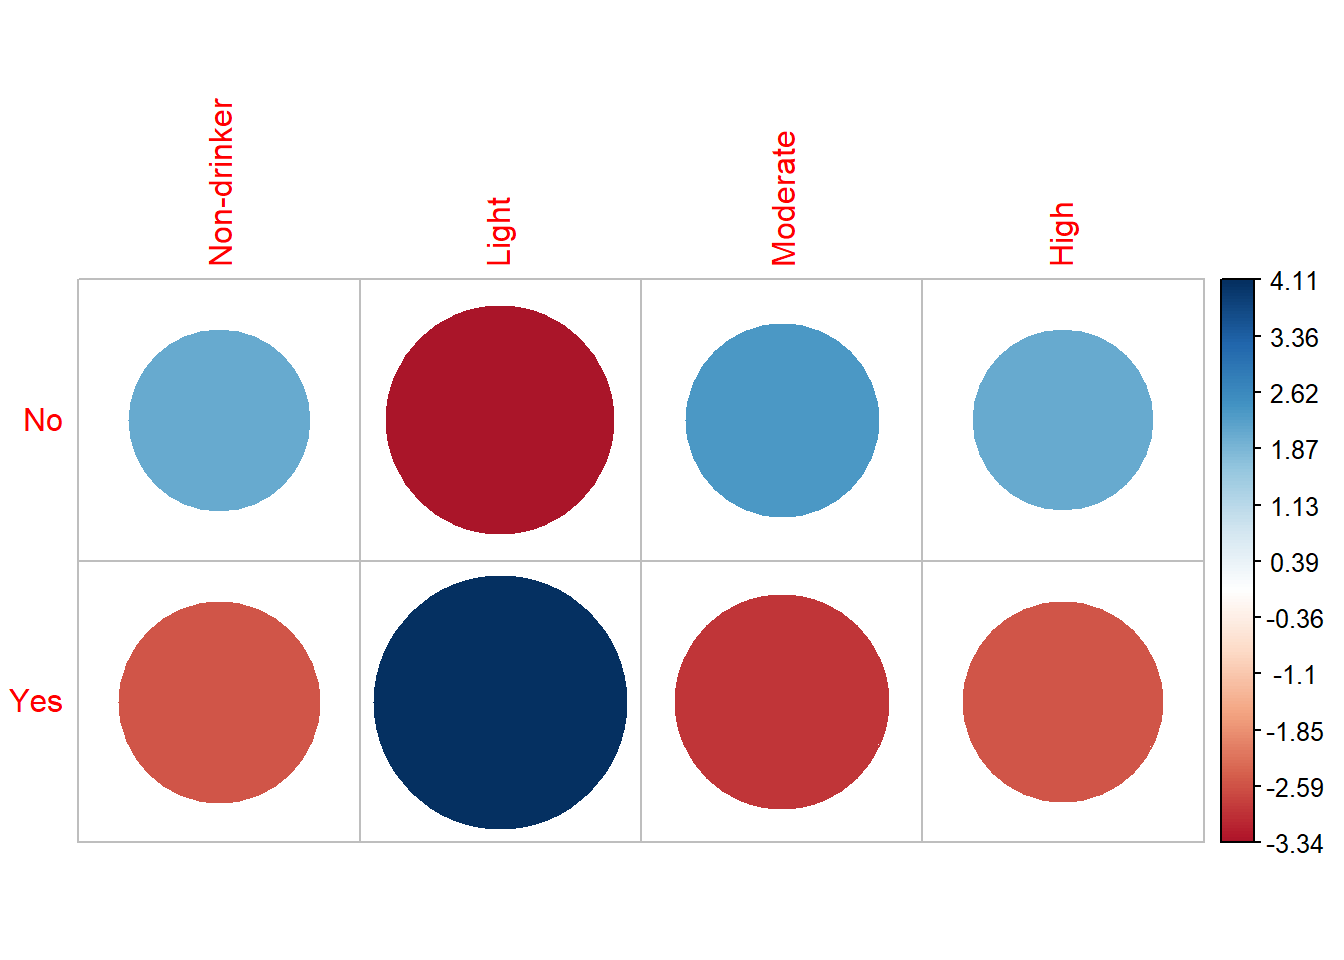
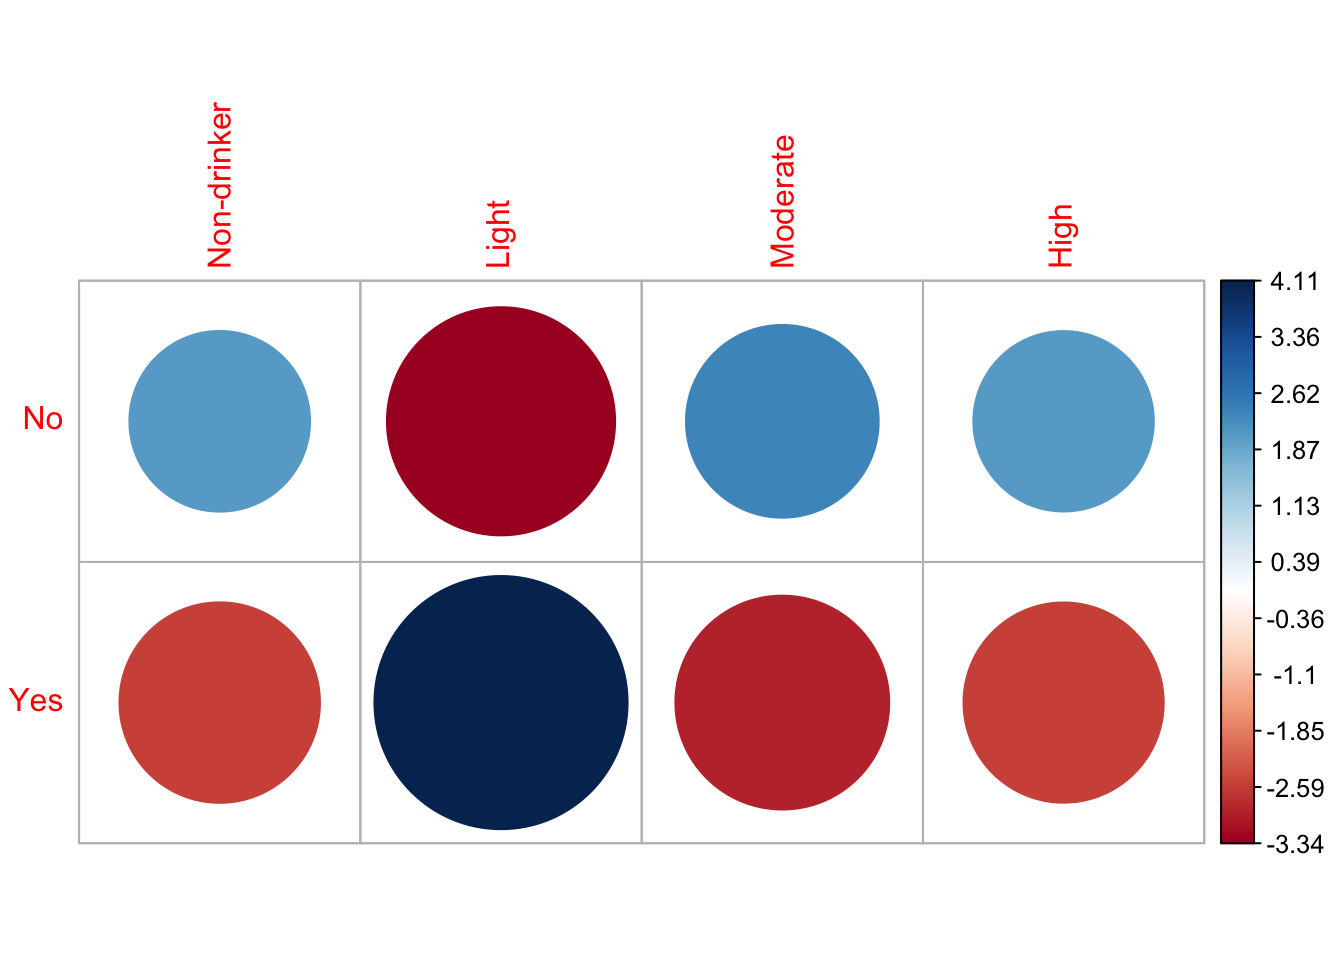
add dalej changs, use absolute file paths for images

diff --git a/data-exploration.html b/data-exploration.html
@@ -2,7 +2,7 @@
 <html xmlns="http://www.w3.org/1999/xhtml" lang="en" xml:lang="en"><head>
 
 <meta charset="utf-8">
-<meta name="generator" content="quarto-1.8.25">
+<meta name="generator" content="quarto-1.9.35">
 
 <meta name="viewport" content="width=device-width, initial-scale=1.0, user-scalable=yes">
 
@@ -11,6 +11,9 @@
 
 <title>Final Project, Group 1</title>
 <style>
+/* Default styles provided by pandoc.
+** See https://pandoc.org/MANUAL.html#variables-for-html for config info.
+*/
 code{white-space: pre-wrap;}
 span.smallcaps{font-variant: small-caps;}
 div.columns{display: flex; gap: min(4vw, 1.5em);}
@@ -63,15 +66,14 @@ pre > code.sourceCode > span > a:first-child::before { text-decoration: underlin
 <script src="data-exploration_files/libs/clipboard/clipboard.min.js"></script>
 <script src="data-exploration_files/libs/quarto-html/quarto.js" type="module"></script>
 <script src="data-exploration_files/libs/quarto-html/tabsets/tabsets.js" type="module"></script>
-<script src="data-exploration_files/libs/quarto-html/axe/axe-check.js" type="module"></script>
 <script src="data-exploration_files/libs/quarto-html/popper.min.js"></script>
 <script src="data-exploration_files/libs/quarto-html/tippy.umd.min.js"></script>
 <script src="data-exploration_files/libs/quarto-html/anchor.min.js"></script>
 <link href="data-exploration_files/libs/quarto-html/tippy.css" rel="stylesheet">
-<link href="data-exploration_files/libs/quarto-html/quarto-syntax-highlighting-7b89279ff1a6dce999919e0e67d4d9ec.css" rel="stylesheet" id="quarto-text-highlighting-styles">
+<link href="data-exploration_files/libs/quarto-html/quarto-syntax-highlighting-46f66b053e56abd73bb6e954d61a315b.css" rel="stylesheet" id="quarto-text-highlighting-styles">
 <script src="data-exploration_files/libs/bootstrap/bootstrap.min.js"></script>
 <link href="data-exploration_files/libs/bootstrap/bootstrap-icons.css" rel="stylesheet">
-<link href="data-exploration_files/libs/bootstrap/bootstrap-9e3ffae467580fdb927a41352e75a2e0.min.css" rel="stylesheet" append-hash="true" id="quarto-bootstrap" data-mode="light">
+<link href="data-exploration_files/libs/bootstrap/bootstrap-138a6193a3bd40baf1e627da441a4734.min.css" rel="stylesheet" append-hash="true" id="quarto-bootstrap" data-mode="light">
 
 
 </head>
@@ -131,8 +133,8 @@ pre > code.sourceCode > span > a:first-child::before { text-decoration: underlin
 </div>
 <section id="how-are-age-gender-raceethnicity-physical-activity-and-smoking-associated-with-bmi" class="level2">
 <h2 class="anchored" data-anchor-id="how-are-age-gender-raceethnicity-physical-activity-and-smoking-associated-with-bmi">How are age, gender, race/ethnicity, physical activity, and smoking associated with BMI?</h2>
-<p>To answer this question, we will use linear regression analysis. The goal of using linear regression is to assess weather relationships observed in a sample are likely to exist in the larger population. The p-values associated with each independent variable test the null hypothesis that the corresponding coefficients is equal to zero, indicating no linear relationship with the dependent variable. Failing to reject the null suggests that insufficient evidence of an association between the independent variable and the response.</p>
-<p>We start by downloading NHANES data from the CDC website for the 2021 - 2023 cohort <a href="https://wwwn.cdc.gov/nchs/nhanes/search/datapage.aspx?Component=Questionnaire&amp;Cycle=2021-2023">cdc.gov</a>. We used a subset of the available data set which includeed: <code>Alcohol</code>, <code>Body measurements</code>, <code>Blood Pressure &amp; Cholesterol</code>, <code>Demographics data</code>, <code>Income information</code>, <code>Smoke usage</code>, and <code>Physical activity</code> (both youth and adults). These files are available to the public in <code>.xpt</code> format, and after downloading, they were loaded into a data frame in R using the <code>read_xpt</code> function. Since each data file contains a unique <code>Respondent Sequnece Number</code> we are able to join all of the individual files into one full data frame. We then begin to fit a linear regression model using BMI as a predictor and age, gender, physical activity, and smoking as independent variables. Our total data frame is used to filter only the necessary variables and drop any missing values. We are left with 1847 observations to work with for a linear regression model; the the results show that a clear relation ship is not visible.</p>
+<p>To answer this question, we will use linear regression analysis and begin with a short overview of the regression process. The goal of using linear regression is to assess weather the relationships that we observe in a sample are likely to exist in the larger population. The regression analysis computes a t-statistic for each independent coefficient and turns that into a p-value. The p-value which is associated with each independent variable test the null hypothesis that the corresponding coefficients is equal to zero, indicating that no linear relationship with the dependent variable exists. Failing to reject the null suggests that insufficient evidence of an association between the independent variable and the response exist, however this is not support of the null hypothesis.</p>
+<p>We start by downloading NHANES data for the 2021 - 2023 cohort from the CDC website <a href="https://wwwn.cdc.gov/nchs/nhanes/search/datapage.aspx?Component=Questionnaire&amp;Cycle=2021-2023">cdc.gov</a>. We used a subset of the available data set which includeed: <code>Alcohol</code>, <code>Body measurements</code>, <code>Blood Pressure &amp; Cholesterol</code>, <code>Demographics data</code>, <code>Income information</code>, <code>Smoke usage</code>, and <code>Physical activity</code> (both youth and adults). These files are available to the public in <code>.xpt</code> format, and after downloading, they were loaded into a data frame in R using the <code>read_xpt</code> function. Since each data file contains a unique <code>Respondent Sequnece Number</code> we are able to join all of the individual files then combined into one full data frame. This total data frame is then filtered to include only the necessary variables and drop any missing values. We then fit a linear regression model using BMI as a predictor and age, gender, physical activity, and smoking as independent variables. We are left with 1847 observations to work with for a linear regression model; viewing a plot of the results we can see that a strong relation ship is not present.</p>
 </section>
 <section id="checking-for-significance-in-the-model" class="level2">
 <h2 class="anchored" data-anchor-id="checking-for-significance-in-the-model">Checking for significance in the model</h2>
@@ -209,7 +211,7 @@ X-squared = 64.234, df = 3, p-value = 7.315e-14</code></pre>
 <div class="cell-output-display">
 <div>
 <figure class="figure">
-<p><img src="data/classification_tree.png" class="img-fluid figure-img" style="width:120.0%"></p>
+<p><img src="./data/classification_tree.png" class="img-fluid figure-img" style="width:120.0%"></p>
 </figure>
 </div>
 </div>
